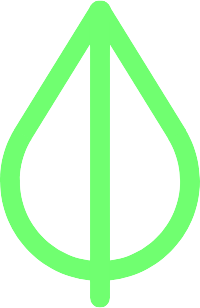
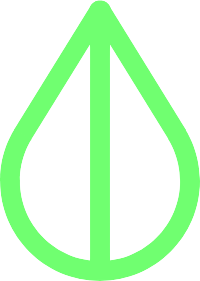
Try to fix theme-change img size and modify plant.png appearance

diff --git a/style.css b/style.css
@@ -13,13 +13,15 @@ body {
 }
 
 button {
+    display: flex;
+    align-items: center;
+    justify-content: center;
+
     cursor: pointer;
 }
 
 button img{
-    width: 5vh;
-
-    margin-top: 4px;
+    width: 55%;
 }
 
 /* Header */
@@ -176,12 +178,6 @@ main {
     border-radius: 8vh;
 
     background-color: rgba(128, 128, 128, 0.3);
-}
-
-.player-button img, .computer-button img {
-    width: 7.5vh;
-
-    margin-top: 6px;
 }
 
 .results {
